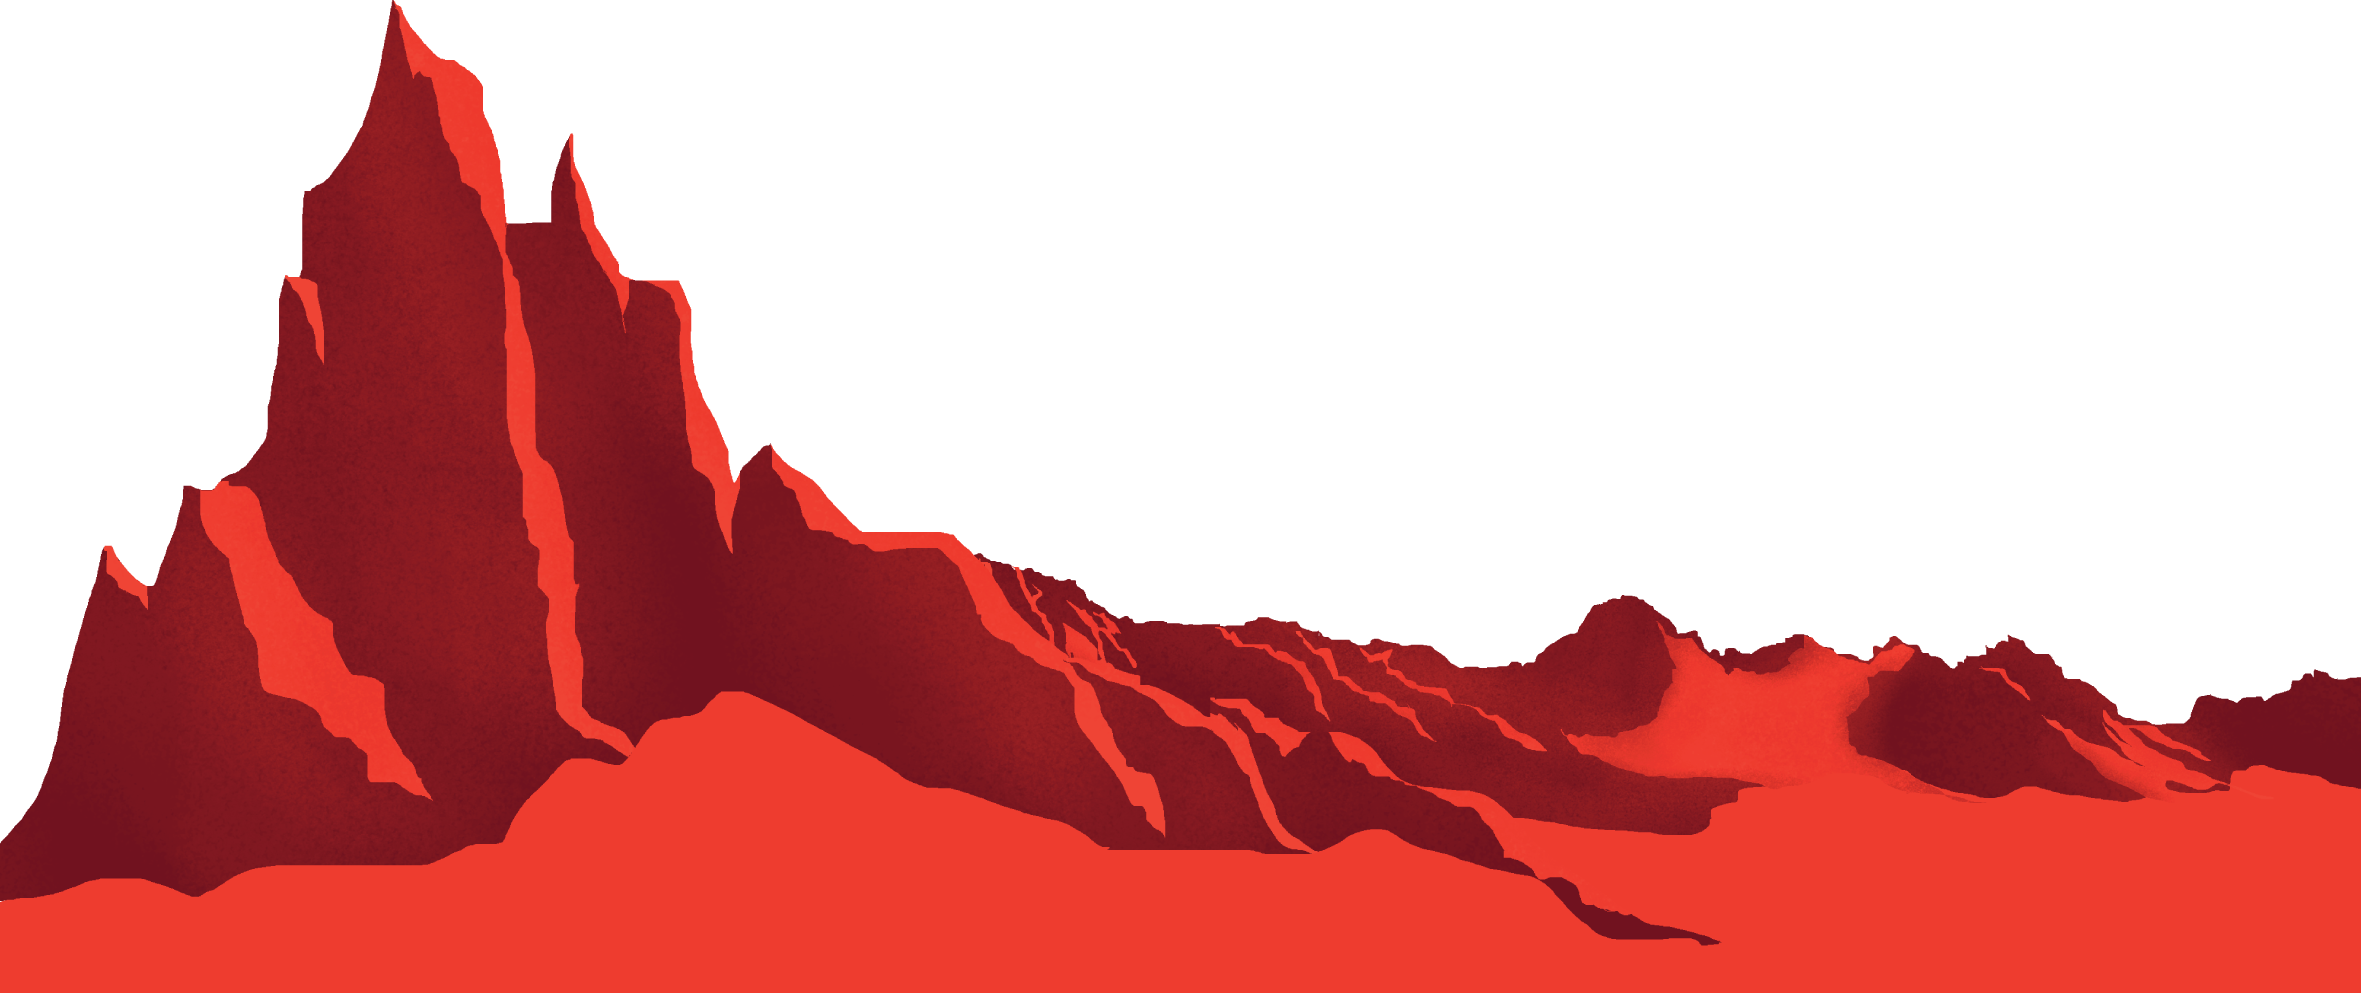
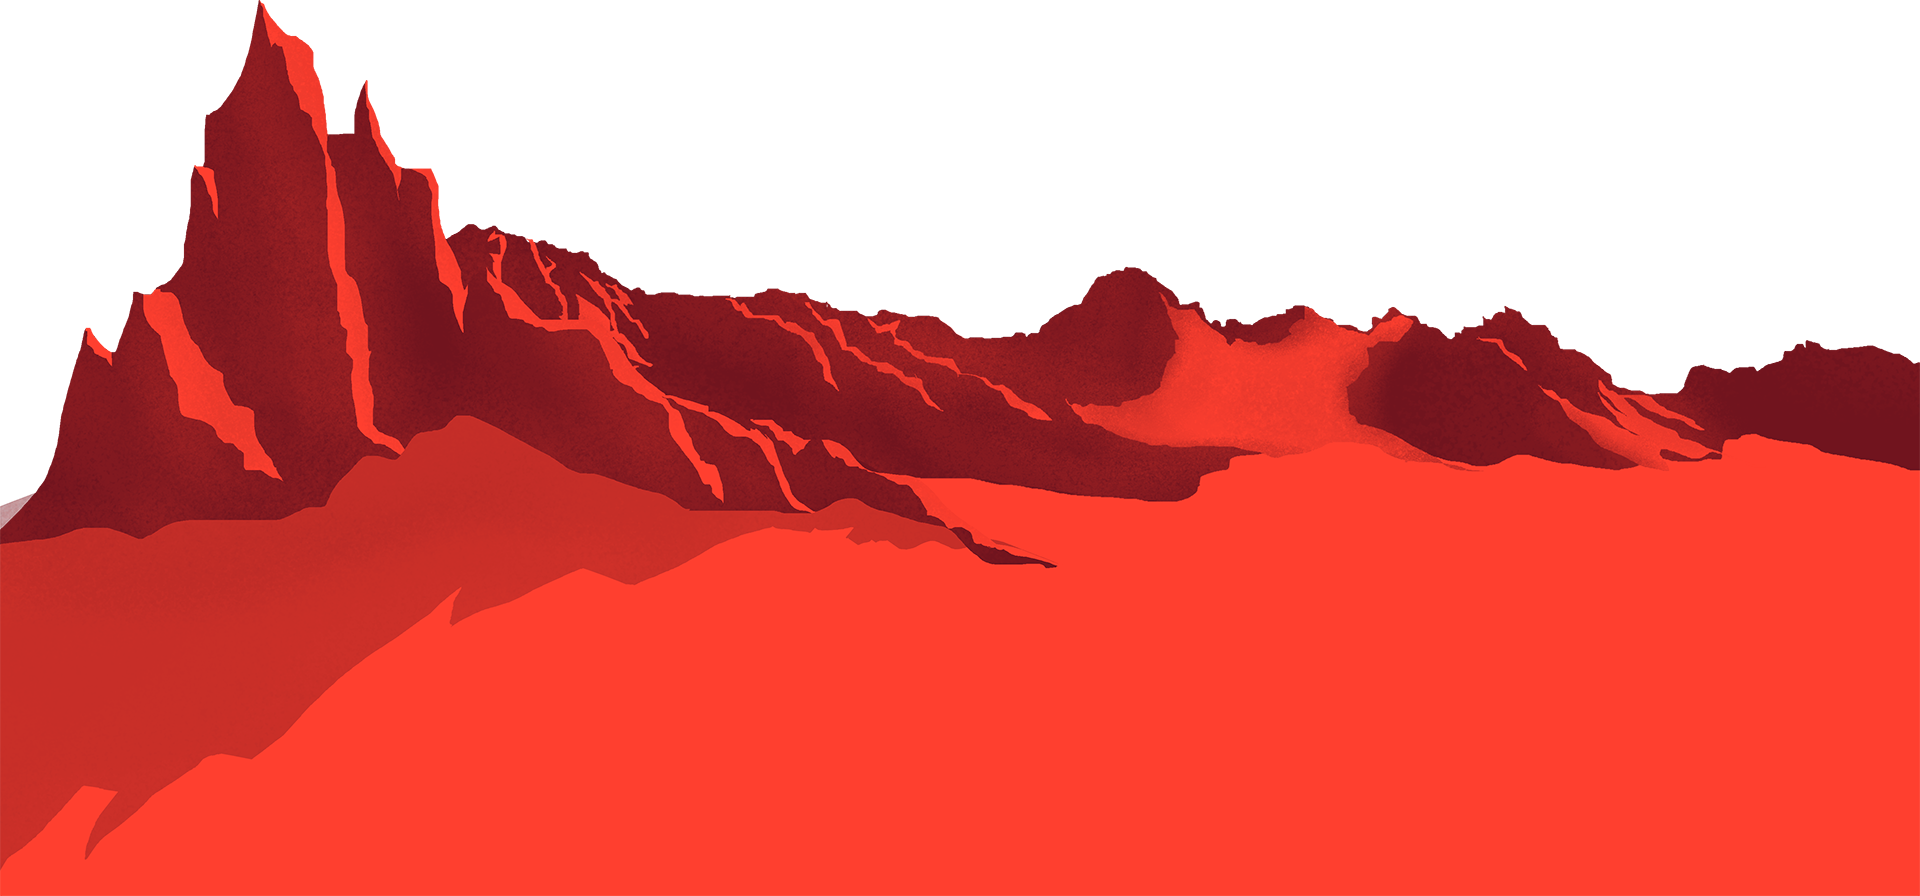
Final(?) parallax images

diff --git a/src/app/index.scss b/src/app/index.scss
@@ -14,7 +14,7 @@ $grey: #B2B2B2;
 $purple: #594269;
 $dark-purple: #2C232B;
 $black: #171519;
-$red: #EE3E2E;
+$red: #fd3d2e;
 $dark-red: #B32F23;
 $dark-grey: #333;
 $light-red: #F58B82;
@@ -149,7 +149,7 @@ a, .red-link {
         content: "";
         position: absolute;
         top: 100%;
-        height: 5rem;
+        height: 20rem;
         width: 100%;
         background-color: $red;
       }
@@ -161,12 +161,13 @@ a, .red-link {
     #mountains-1 {
       position: absolute;
       width: 100%;
-      height: 28vw;
+      height: 34vw;
       background-image: url('/assets/images/bg-1-small.png');
       -webkit-filter: blur(10px);
       filter: blur(10px);
       background-size: auto 100%;
       background-repeat: no-repeat;
+      background-position: 4rem 0;
 
       &.loaded {
         background-image: url('/assets/images/bg-1.png');
@@ -181,10 +182,64 @@ a, .red-link {
         width: 100%;
         background-color: $red;
       }
+
+      @media (max-width: $screen-sm-max) {
+        display: none;
+      }
     }
     #mountains-2 {
       position: absolute;
-      // top: 50rem;
+      width: 100%;
+      height: 36vw;
+      background-image: url('/assets/images/bg-2-small.png');
+      -webkit-filter: blur(10px);
+      filter: blur(10px);
+      background-size: cover;
+
+      &.loaded {
+        background-image: url('/assets/images/bg-2.png');
+        animation: sharpen 1s both ease;
+      }
+
+      &::after {
+        content: "";
+        position: absolute;
+        top: 100%;
+        height: 5rem;
+        width: 100%;
+        background-color: $red;
+      }
+
+      @media (max-width: $screen-sm-max) {
+        display: none;
+      }
+    }
+    #mountains-3 {
+      position: absolute;
+      width: 100vw;
+      height: 30vw;
+      background-image: url('/assets/images/bg-3-small.png');
+      -webkit-filter: blur(10px);
+      filter: blur(10px);
+      background-size: cover;
+
+      &.loaded {
+        background-image: url('/assets/images/bg-3.png');
+        animation: sharpen 1s both ease;
+      }
+
+      &::after {
+        content: "";
+        position: absolute;
+        top: 100%;
+        height: 28rem;
+        width: 100%;
+        background-color: $red;
+      }
+
+      @media (max-width: $screen-sm-max) {
+        display: none;
+      }
     }
   }
 

diff --git a/src/app/main/landing.html b/src/app/main/landing.html
@@ -9,24 +9,24 @@
   <canvas id="starry-night"></canvas>
   <div class="mountains full-height">
     <div id="mountains-0"
-         data-0="top: 8rem"
-         data-600="top: 3rem">
+         data-0="top: 13rem"
+         data-600="top: 8rem">
       <!-- <img src="/assets/images/mountains-0-small.png" alt=""> -->
       <!-- <img src="/assets/images/mountains-0.png" alt=""> -->
     </div>
     <div id="mountains-1"
-         data-0="top: 32rem"
-         data-600="top: 22rem">
+         data-0="top: 33rem"
+         data-600="top: 21rem">
       <!-- <img src="/assets/images/mountains-1.png" alt=""> -->
     </div>
     <div id="mountains-2"
-         data-0="top: 50rem"
-         data-600="top: 25rem">
+         data-0="top: 43rem"
+         data-600="top: 24rem">
       <!-- <img src="/assets/images/mountains-2.png" alt=""> -->
     </div>
     <div id="mountains-3"
-         data-0="top: 50rem"
-         data-600="top: 25rem">
+         data-0="top: 48rem"
+         data-600="top: 20rem">
       <!-- <img src="/assets/images/mountains-2.png" alt=""> -->
     </div>
   </div>

diff --git a/src/app/components/faq/faq.html b/src/app/components/faq/faq.html
@@ -1,14 +1,14 @@
 <div class="row faq-ama"
      ng-controller="FaqCtrl">
 
-  <div class="ama col-md-4 col-md-offset-1">
+  <div class="ama col-sm-4 col-sm-offset-1">
     <h2>Have a Question?</h2>
     <p>Check out some frequently asked questions to the right. Still can't find help? Use the form below to talk to one of our organizers!</p>
     <textarea class="input input-outline" placeholder="Ask us anything!" name="questionInput" id="questionInput" rows="3"></textarea>
     <button ng-click="submitQuestion()" class="button button-secondary">Submit</button>
   </div>
 
-  <div class="faq col-md-4">
+  <div class="faq col-sm-4">
     <div class="scroll-container">
       <h2>FAQ</h2>
 
